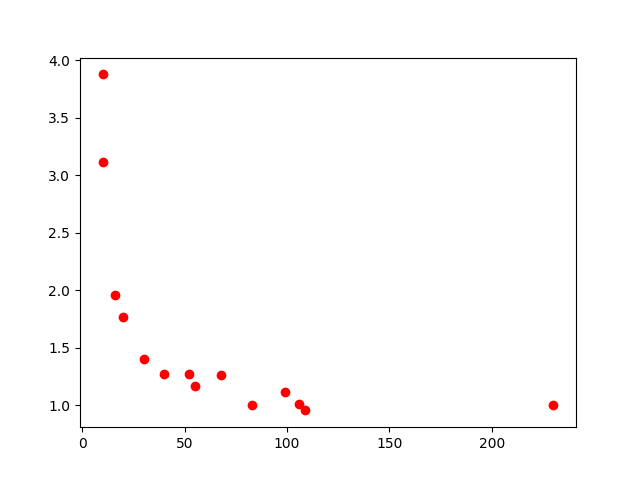
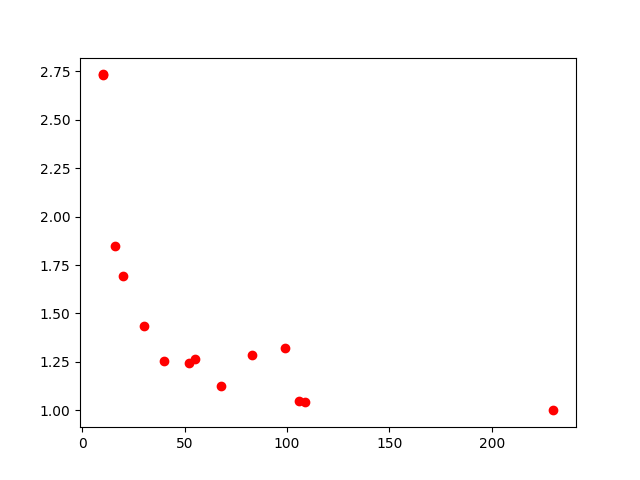
Approx done

diff --git a/code/Approximation.py b/code/Approximation.py
@@ -13,12 +13,10 @@ import time
 import os
 from Output import Output
 from Input import format_check, parse_input, adjacency_mat
-import multiprocessing
-from threading import Thread, Event
 
 
 # O(m log n) todo O(n^2)
-def computeMST(g):
+def computeMST_nx(g):
 
     # binary heap - O(m log n)
     t = nx.minimum_spanning_tree(g, algorithm='prim')
@@ -32,7 +30,7 @@ def computeMST(g):
 
 
 # max[O(n^2), O(computeMST)]
-def compute(d, input):
+def compute_nx(d, input):
 
     for i in range(d):
         input[i][i] = 0
@@ -42,7 +40,7 @@ def compute(d, input):
     # O(n^2)
     g = nx.from_numpy_matrix(m)
 
-    t = computeMST(g)
+    t = computeMST_nx(g)
     assert d == len(t.nodes)
 
     # O(n * .) = O(n^2)
@@ -61,6 +59,63 @@ def compute(d, input):
         break
 
     return c, tour
+
+
+# O(d^2)
+def MST(d, input, root):
+
+    mst = np.zeros(d)
+    mst[root] = root
+
+    a = np.ones(d) * sys.maxint
+
+    visited = np.zeros(d)
+    visited[root] = 1
+
+    while not np.all(visited):
+        u = np.argmin(a)
+        visited[u] = 1
+        a[u] = sys.maxint
+
+        for v in range(d):
+            if not visited[v] and input[u][v] < a[v]:
+                a[v] = input[u][v]
+                mst[v] = u
+
+    return mst
+
+# O(d^2)
+def DFS(d, mst, root):
+    assert len(mst) == d
+    assert mst[root] == root
+
+    tsp = []
+    stack = [root]
+    visited = np.zeros(d)
+    visited[root] = 1
+
+    while len(stack):
+        cur = stack.pop()
+        tsp.append(cur)
+
+        for i in range(d):
+            if not visited[i] and mst[i] == cur:
+                stack.append(i)
+                visited[i] = 1
+
+    tsp.append(root)
+    return tsp
+
+# O(d^2)
+def compute(d, input):
+
+    root = 0
+
+    mst = MST(d, input, root)
+    tsp = DFS(d, mst, root)
+    c = np.sum([input[tsp[i]][tsp[i + 1]] for i in range(d)])
+
+    return c, tsp
 
 
 if __name__ == "__main__":
@@ -97,25 +152,21 @@ if __name__ == "__main__":
 
             city, dim, edge_weight_type, coord = parse_input(filename)
             adj_mat = adjacency_mat(dim, edge_weight_type, coord)
+            print city
 
             k = 10
-            cut_off_sec = 1  # todo
             start_MST = time.time()
-
             for i in range(k):
-                thread = Thread(target=compute, args=(dim, adj_mat))
-                thread.start()
-                thread.join(timeout=cut_off_sec)
-                # assert not thread.is_alive()
-
+                # compute_nx(dim, adj_mat)
+                c, tour = compute(dim, adj_mat)
+                # print c, tour
             end_MST = time.time()
             total_time = (end_MST - start_MST)
 
-            print city
             print total_time / k
 
             dims.append(dim)
-            rel_times.append(total_time / (dim * dim * np.log(dim)))
+            rel_times.append(total_time / (dim * dim))
             rel_dists.append(np.average(adj_mat) / np.std(adj_mat))
 
         rel_times = np.array(rel_times)
